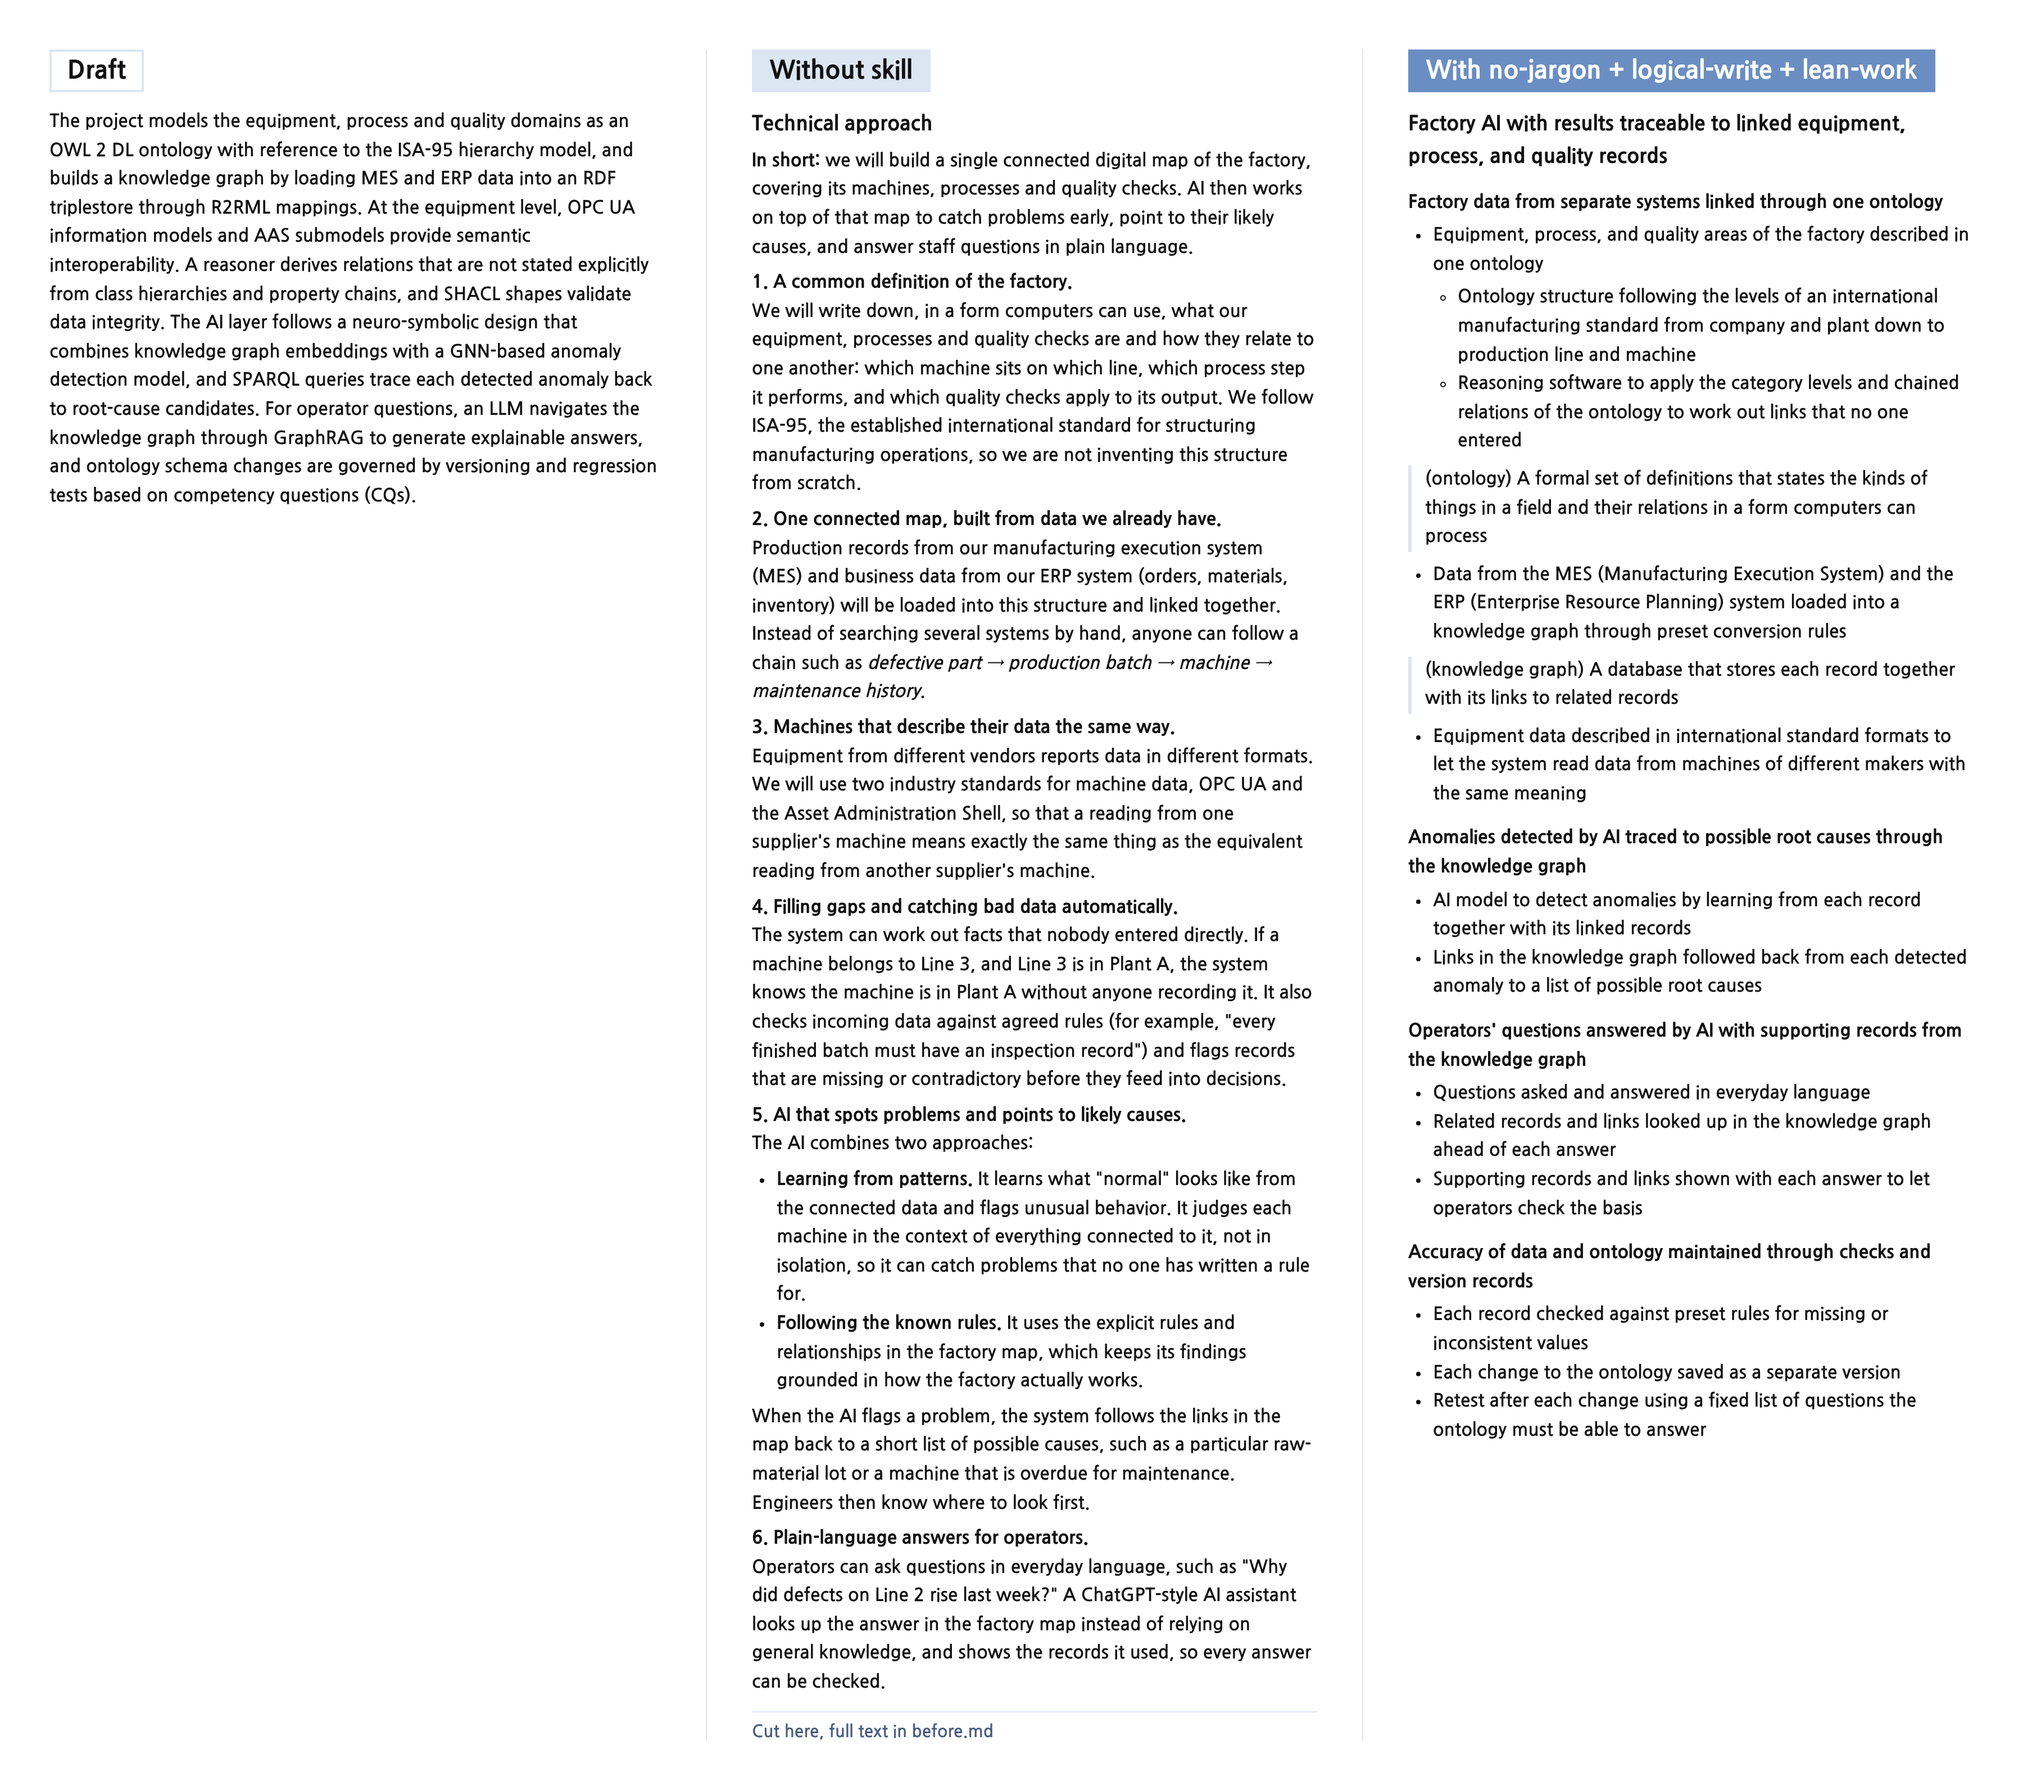
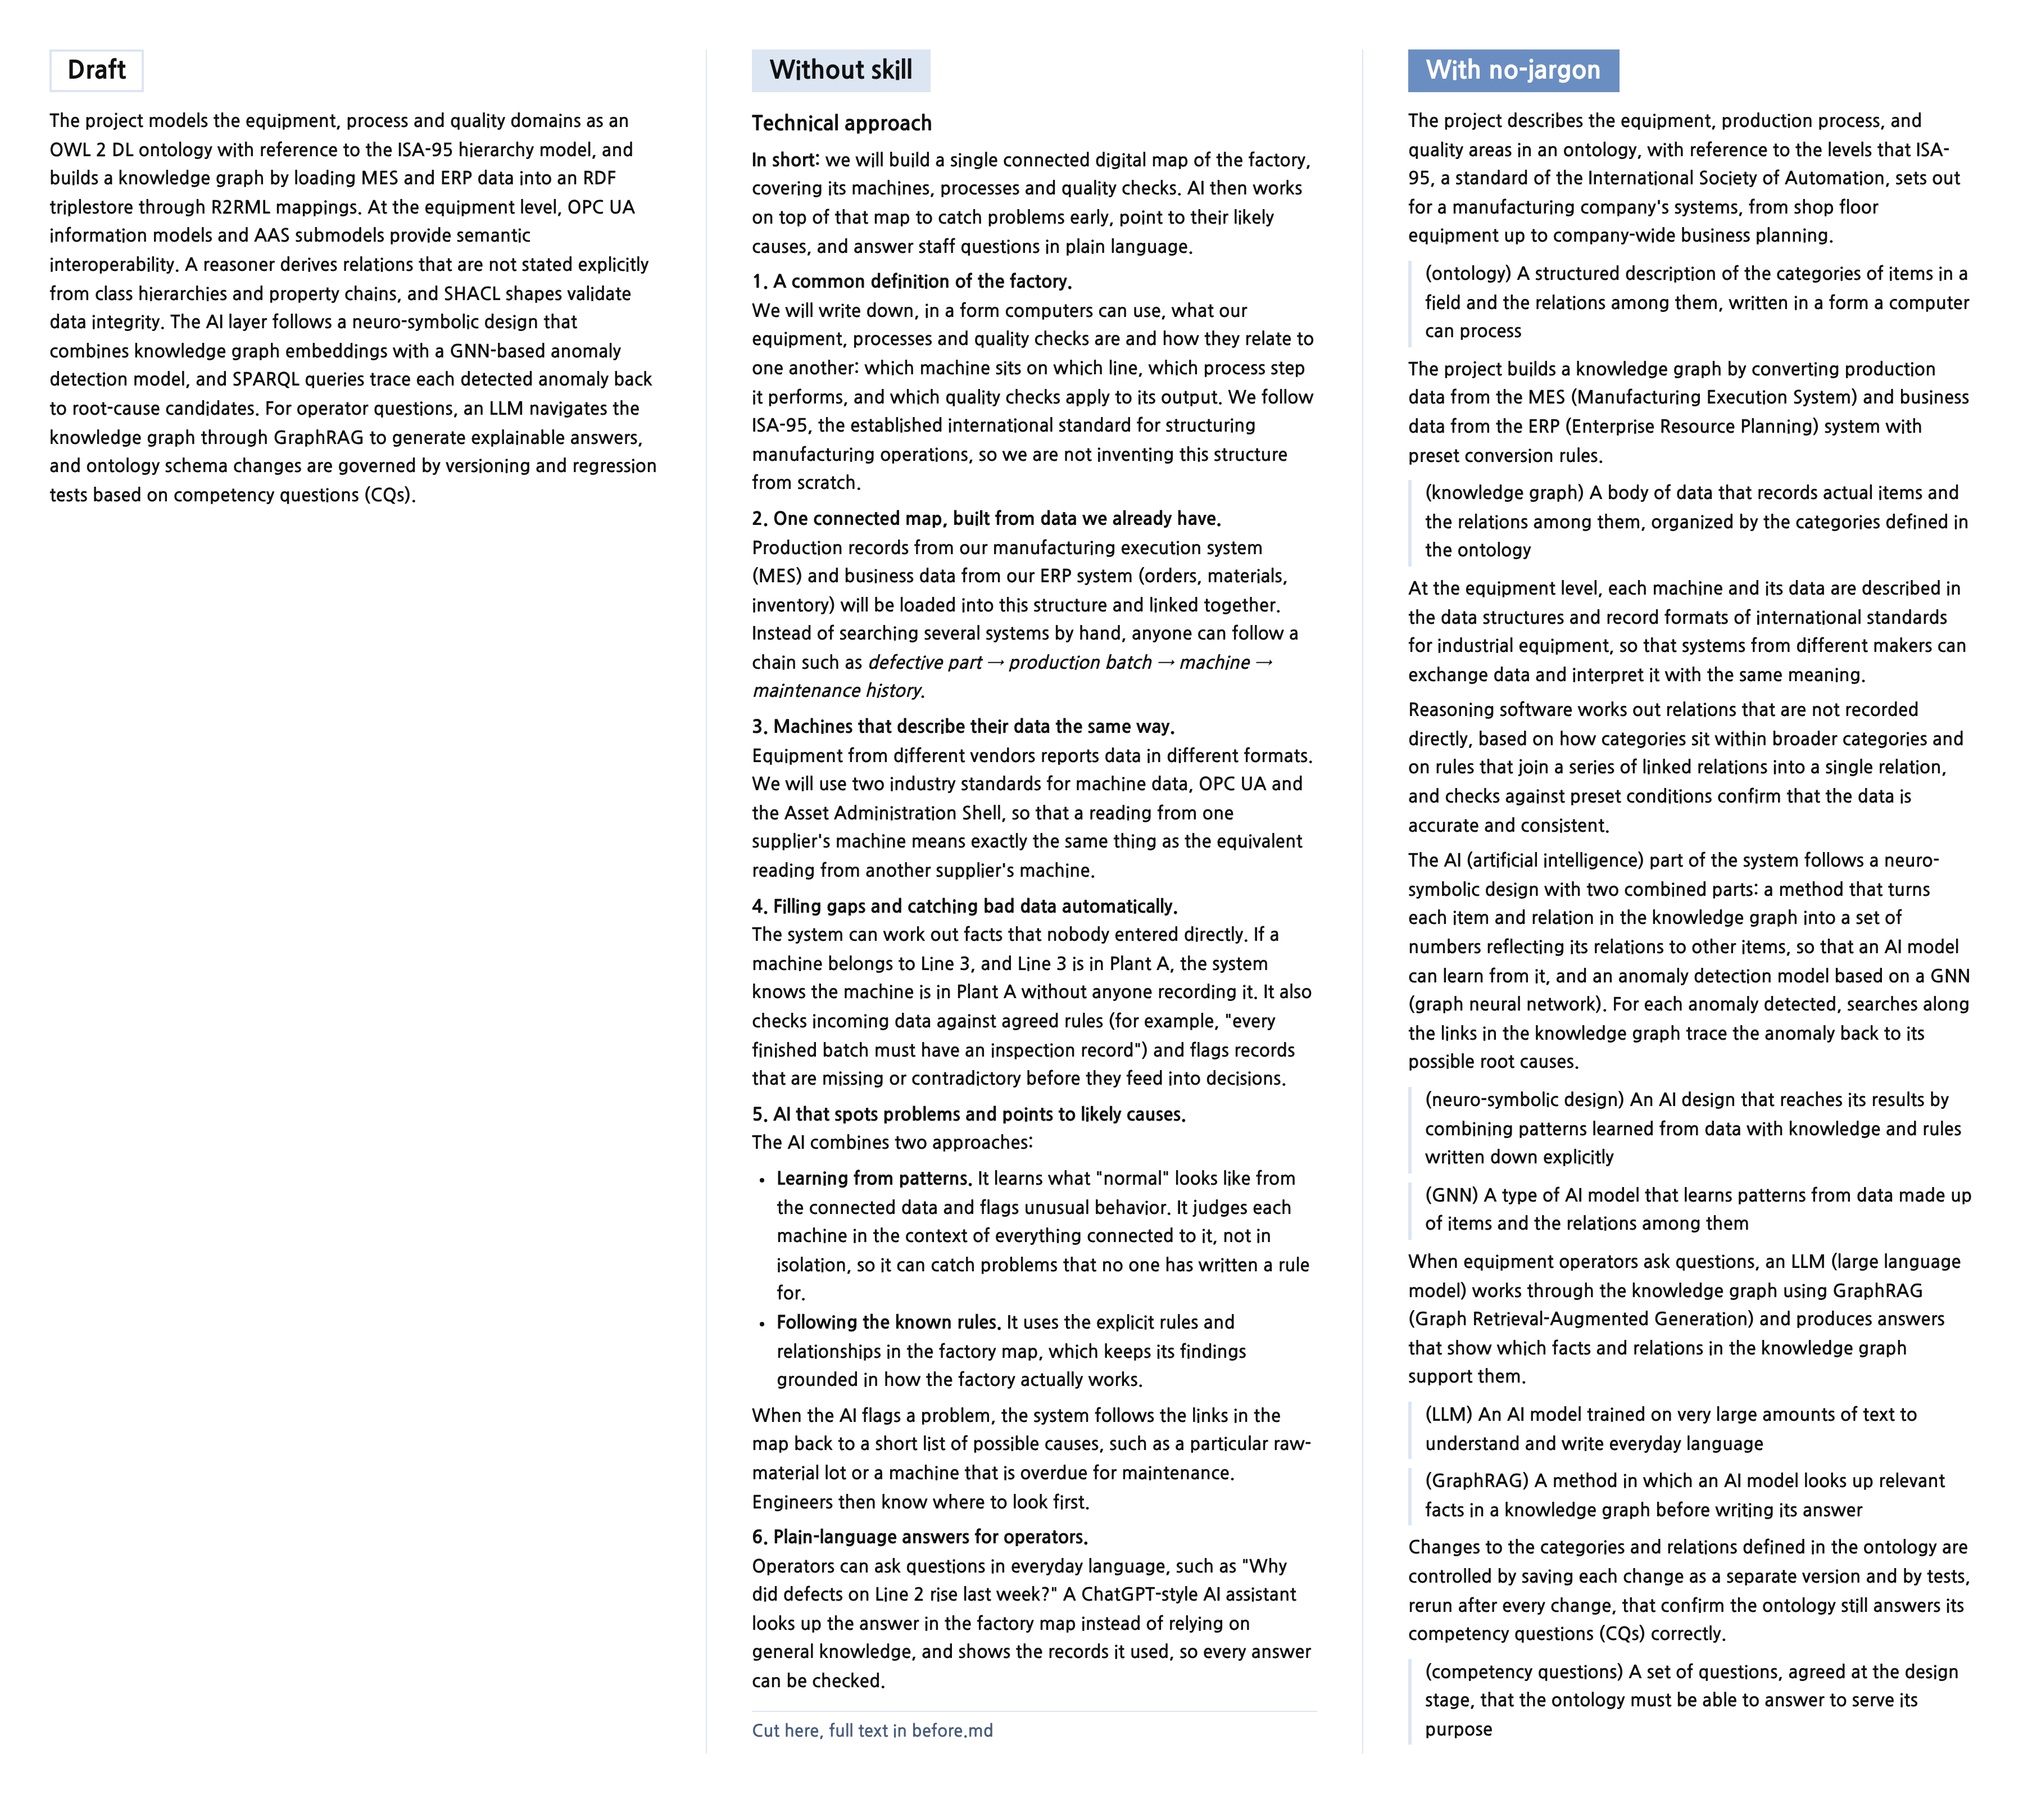
Rerun the no-jargon demo with no-jargon alone
logical-write and lean-work also carry rules on technical terms, so the
combined run did not show what no-jargon does by itself. The skill output
keeps only the corrected text. Implementation names such as OWL 2 DL,
R2RML, RDF, SHACL, SPARQL, OPC UA and AAS are removed under the skill's
first rule (remove terms that do not serve the purpose), which keeps the
output shorter than the baseline (ko 953 vs 1011 characters, en 470 vs
582 words).

Claude-Session: https://claude.ai/code/session_01GGLbaL65V7p6PFmonQcYHU

Changed region(s): [[0.6844, 0.0, 0.9644, 0.9639], [0.3733, 0.0622, 0.6533, 0.9639], [0.0311, 0.0622, 0.3111, 0.2798]]

diff --git a/skills/no-jargon/demo/ko/after.md b/skills/no-jargon/demo/ko/after.md
@@ -1,32 +1,23 @@
-## 설비, 공정, 품질 데이터를 하나로 연결하여 판단 근거까지 설명하는 제조AI 구현
+본 과제는 제조 기업의 업무를 현장 설비 제어부터 경영 관리까지 계층별로 구분한 국제 표준 ISA-95를 참조해 설비, 공정, 품질 분야를 온톨로지로 표현한다.
 
-### 기존 시스템과 설비의 데이터를 하나의 연결 구조로 통합
-- 설비, 공정, 품질 영역은 ISA-95 계층 모델을 참조하여 온톨로지로 설계
+> (온톨로지) 한 분야에서 다루는 대상의 종류와 속성, 대상 사이의 관계를 컴퓨터가 읽고 따질 수 있는 형식으로 정해 둔 개념 체계
 
-> (ISA-95) 제조 기업의 활동을 경영 계획, 생산 운영, 현장 제어의 계층으로 구분한 국제 표준
+제조실행시스템(MES)과 전사적자원관리시스템(ERP)에 표 형태로 저장된 데이터를 미리 정한 변환 규칙에 따라 옮겨 지식그래프를 구축한다.
 
-> (온톨로지) 한 분야를 이루는 대상의 종류와 대상 사이의 관계를 컴퓨터가 처리할 수 있는 형식으로 정한 개념 체계
+> (지식그래프) 설비, 공정, 품질 같은 대상과 대상 사이의 관계를 서로 이어진 연결망으로 저장해 컴퓨터가 관계를 따라가며 정보를 찾고 따질 수 있게 만든 데이터
 
-- 제조실행시스템(MES)과 전사적 자원관리 시스템(ERP)의 표 형태 데이터를 미리 정한 변환 규칙에 따라 온톨로지 형식으로 옮겨 지식그래프 구축
+개별 설비의 데이터는 산업 설비 국제 표준의 데이터 구조와 항목 양식에 맞추어 표현해 제조사가 다른 설비와 시스템 사이에서도 같은 뜻으로 해석되도록 한다.
 
-> (지식그래프) 개별 데이터를 대상과 관계 단위로 이어 저장하여 관계를 따라 정보를 찾을 수 있게 만든 데이터베이스
+추론 프로그램은 개념 사이의 상하위 관계와 여러 관계를 차례로 이어 새 관계를 정의하는 규칙을 적용해 데이터에 직접 적혀 있지 않은 관계를 이끌어 낸다. 또한 데이터가 갖춰야 할 조건을 미리 정해 두고 이 조건에 따라 데이터에 빠지거나 어긋난 값이 없는지 검사한다.
 
-- 설비별 데이터는 산업 설비의 국제 표준 항목 구성으로 기술하여 제조사가 다른 설비의 데이터도 같은 뜻으로 해석 가능
+인공지능(AI) 영역은 지식그래프의 대상과 관계를 연결 구조가 반영된 숫자 목록으로 바꾸어 인공지능이 계산에 쓸 수 있게 하는 기법과, 대상 사이의 연결 관계까지 함께 학습하는 그래프 신경망(GNN) 기반의 이상 탐지 인공지능을 결합한 뉴로심볼릭 구조로 설계한다. 이상이 탐지되면 지식그래프의 연결 관계를 거슬러 올라가 근본 원인으로 의심되는 후보를 찾아낸다.
 
-### 지식그래프의 정확성을 자동 추론과 검사로 유지
-- 추론 소프트웨어가 데이터에 직접 기록되지 않은 관계를 기존 기록에서 도출
-    + (상하위 분류) "검사 설비"로 등록한 장비는 따로 입력하지 않아도 상위 분류인 "설비"에 속하는 대상으로 인식
-    + (관계 연쇄) "설비 A는 공정 1에 속함"과 "공정 1은 제품 B를 생산함"이라는 두 기록에서 "설비 A는 제품 B 생산에 관여함"이라는 관계 도출
-- 미리 정한 검사 규칙으로 지식그래프 데이터의 필수 항목 누락, 허용 범위를 벗어난 값, 잘못 이어진 관계를 검출
-- 온톨로지를 수정해도 기존 기능이 유지되도록 변경 절차 통제
-    + 온톨로지 수정 내역은 버전별로 기록하여 이력 관리
-    + 수정 후에는 온톨로지가 답해야 할 업무 질문 목록으로 다시 시험하여 기존 질문의 답이 그대로 나오는지 확인
+> (뉴로심볼릭) 데이터에서 패턴을 스스로 익히는 인공지능에 사람이 정한 개념과 규칙에 따른 판단을 결합하는 설계 방식
 
-### 지식그래프의 관계 정보로 AI 판단의 근거 제시
-- 이상 탐지 기능은 지식그래프의 관계 정보와 데이터에서 패턴을 학습하는 AI 모델을 결합한 방식으로 설계
-    + 지식그래프의 대상과 관계는 AI 모델이 계산할 수 있는 숫자 값으로 바꾸어 학습에 활용
-    + AI 모델은 관계로 이어진 이웃 설비와 공정의 상태를 함께 반영하여 이상 탐지
-- 탐지된 이상은 지식그래프의 관계를 거슬러 올라가 근본 원인 후보까지 추적
-- 운영자 질문에는 대규모 언어 모델(LLM)이 지식그래프를 탐색하여 출처가 된 사실을 함께 밝힌 답변 생성
+운영자가 질문하면 사람의 말을 이해하고 글로 답하는 인공지능인 대규모 언어 모델(LLM)이 GraphRAG(Graph Retrieval-Augmented Generation) 방식으로 지식그래프를 탐색해 답변을 만들고, 답변의 근거가 된 데이터와 연결 관계를 함께 제시한다.
 
-> (대규모 언어 모델) 방대한 글을 학습하여 사람이 일상 언어로 한 질문에 문장으로 답하는 AI
+> (GraphRAG) 인공지능이 서로 연결된 사실들을 관계를 따라 먼저 찾아본 뒤 찾은 사실을 근거로 답변을 쓰게 하는 방식
+
+온톨로지에 정해 둔 개념과 관계의 변경은 매번 이력을 남겨 이전 상태로 되돌릴 수 있게 하고, 변경 후에도 온톨로지가 역량 질문(Competency Question)에 이전과 같이 올바르게 답하는지 다시 확인하는 방식으로 관리한다.
+
+> (역량 질문) 개념 체계를 설계할 때 그 체계가 답할 수 있어야 한다고 미리 정해 두는 질문

diff --git a/skills/no-jargon/demo/en/after.md b/skills/no-jargon/demo/en/after.md
@@ -1,28 +1,27 @@
-## Factory AI with results traceable to linked equipment, process, and quality records
+The project describes the equipment, production process, and quality areas in an ontology, with reference to the levels that ISA-95, a standard of the International Society of Automation, sets out for a manufacturing company's systems, from shop floor equipment up to company-wide business planning.
 
-### Factory data from separate systems linked through one ontology
-- Equipment, process, and quality areas of the factory described in one ontology
-    + Ontology structure following the levels of an international manufacturing standard from company and plant down to production line and machine
-    + Reasoning software to apply the category levels and chained relations of the ontology to work out links that no one entered
+> (ontology) A structured description of the categories of items in a field and the relations among them, written in a form a computer can process
 
-> (ontology) A formal set of definitions that states the kinds of things in a field and their relations in a form computers can process
+The project builds a knowledge graph by converting production data from the MES (Manufacturing Execution System) and business data from the ERP (Enterprise Resource Planning) system with preset conversion rules.
 
-- Data from the MES (Manufacturing Execution System) and the ERP (Enterprise Resource Planning) system loaded into a knowledge graph through preset conversion rules
+> (knowledge graph) A body of data that records actual items and the relations among them, organized by the categories defined in the ontology
 
-> (knowledge graph) A database that stores each record together with its links to related records
+At the equipment level, each machine and its data are described in the data structures and record formats of international standards for industrial equipment, so that systems from different makers can exchange data and interpret it with the same meaning.
 
-- Equipment data described in international standard formats to let the system read data from machines of different makers with the same meaning
+Reasoning software works out relations that are not recorded directly, based on how categories sit within broader categories and on rules that join a series of linked relations into a single relation, and checks against preset conditions confirm that the data is accurate and consistent.
 
-### Anomalies detected by AI traced to possible root causes through the knowledge graph
-- AI model to detect anomalies by learning from each record together with its linked records
-- Links in the knowledge graph followed back from each detected anomaly to a list of possible root causes
+The AI (artificial intelligence) part of the system follows a neuro-symbolic design with two combined parts: a method that turns each item and relation in the knowledge graph into a set of numbers reflecting its relations to other items, so that an AI model can learn from it, and an anomaly detection model based on a GNN (graph neural network). For each anomaly detected, searches along the links in the knowledge graph trace the anomaly back to its possible root causes.
 
-### Operators' questions answered by AI with supporting records from the knowledge graph
-- Questions asked and answered in everyday language
-- Related records and links looked up in the knowledge graph ahead of each answer
-- Supporting records and links shown with each answer to let operators check the basis
+> (neuro-symbolic design) An AI design that reaches its results by combining patterns learned from data with knowledge and rules written down explicitly
 
-### Accuracy of data and ontology maintained through checks and version records
-- Each record checked against preset rules for missing or inconsistent values
-- Each change to the ontology saved as a separate version
-- Retest after each change using a fixed list of questions the ontology must be able to answer
+> (GNN) A type of AI model that learns patterns from data made up of items and the relations among them
+
+When equipment operators ask questions, an LLM (large language model) works through the knowledge graph using GraphRAG (Graph Retrieval-Augmented Generation) and produces answers that show which facts and relations in the knowledge graph support them.
+
+> (LLM) An AI model trained on very large amounts of text to understand and write everyday language
+
+> (GraphRAG) A method in which an AI model looks up relevant facts in a knowledge graph before writing its answer
+
+Changes to the categories and relations defined in the ontology are controlled by saving each change as a separate version and by tests, rerun after every change, that confirm the ontology still answers its competency questions (CQs) correctly.
+
+> (competency questions) A set of questions, agreed at the design stage, that the ontology must be able to answer to serve its purpose
